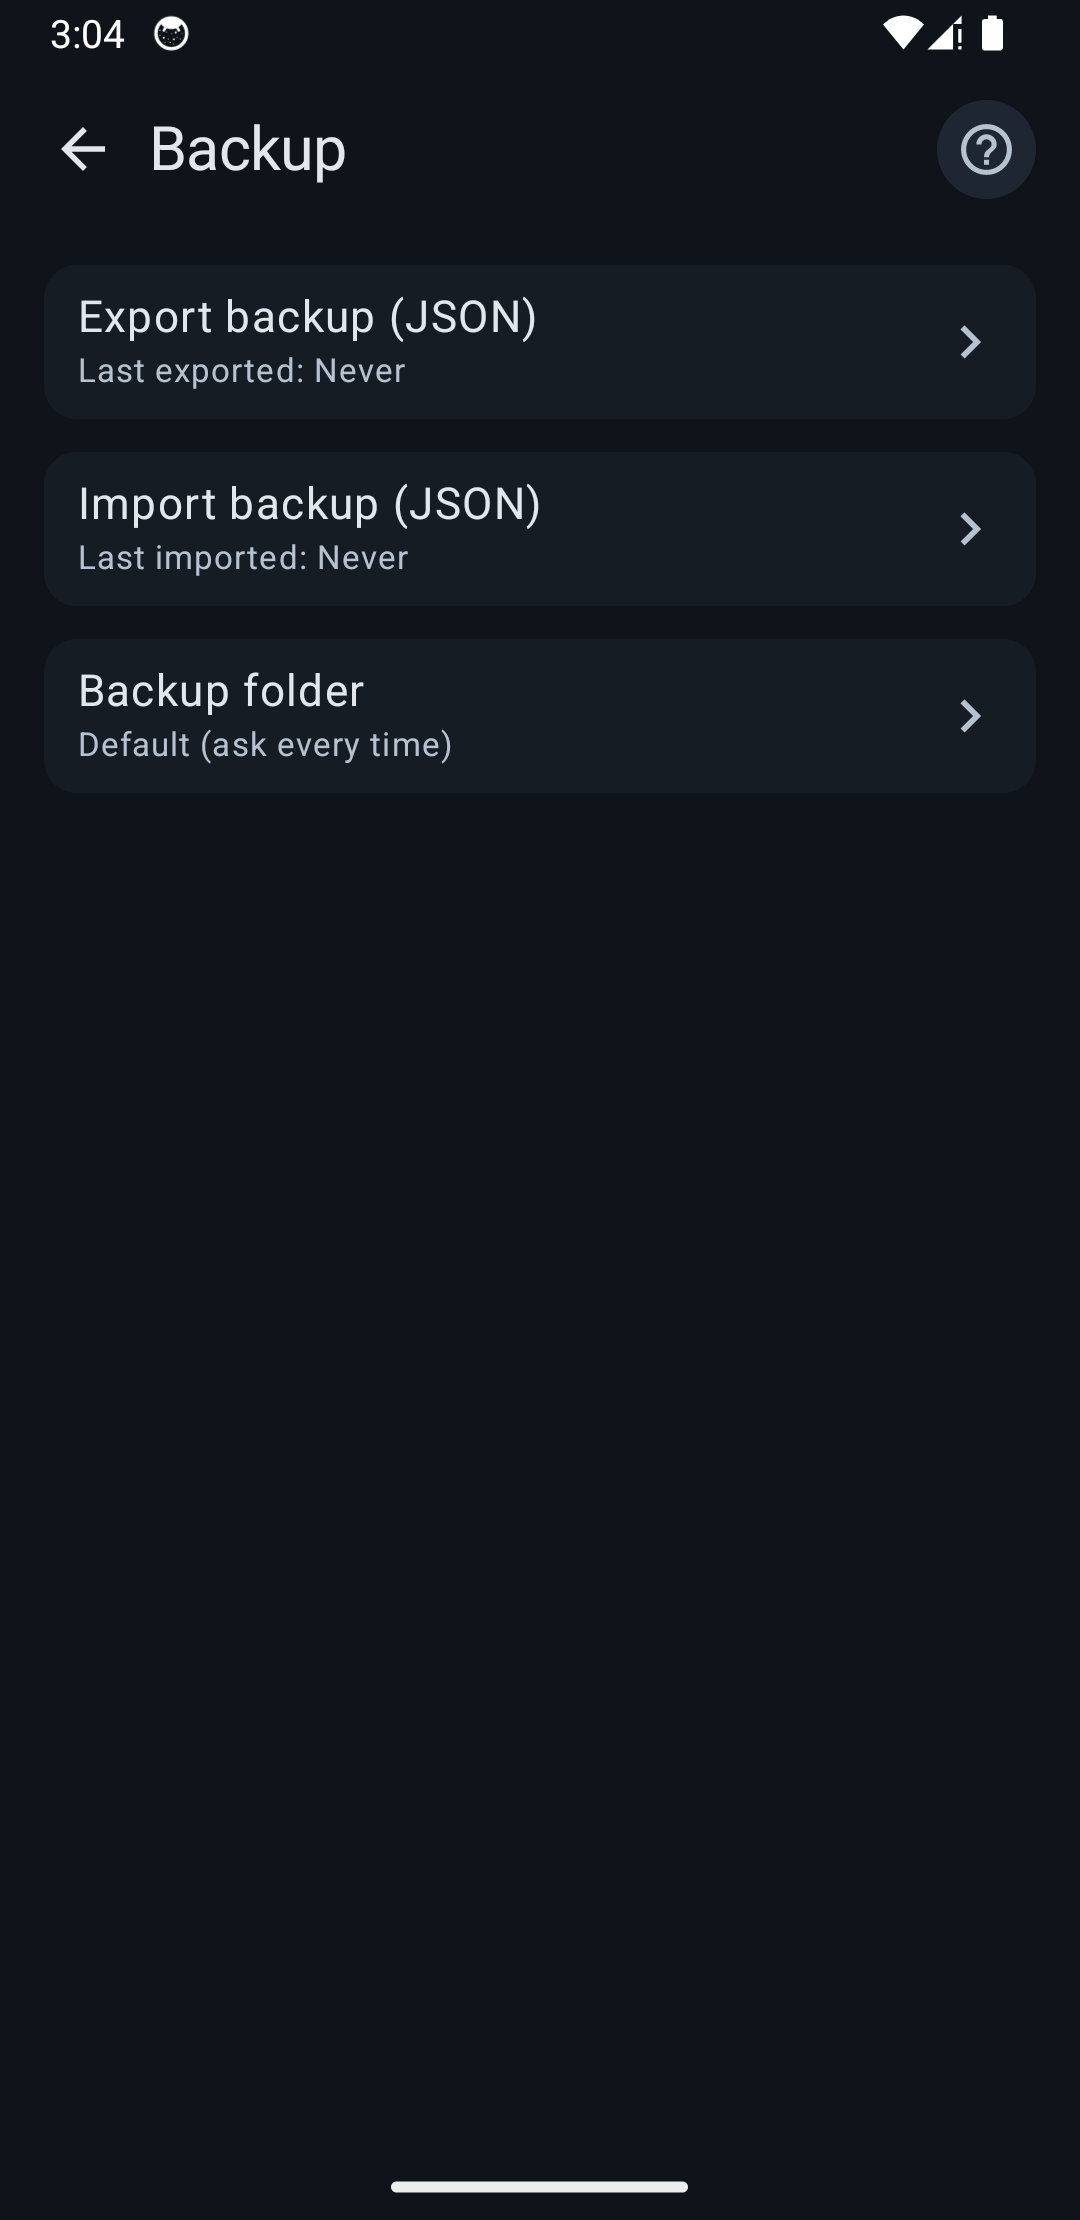
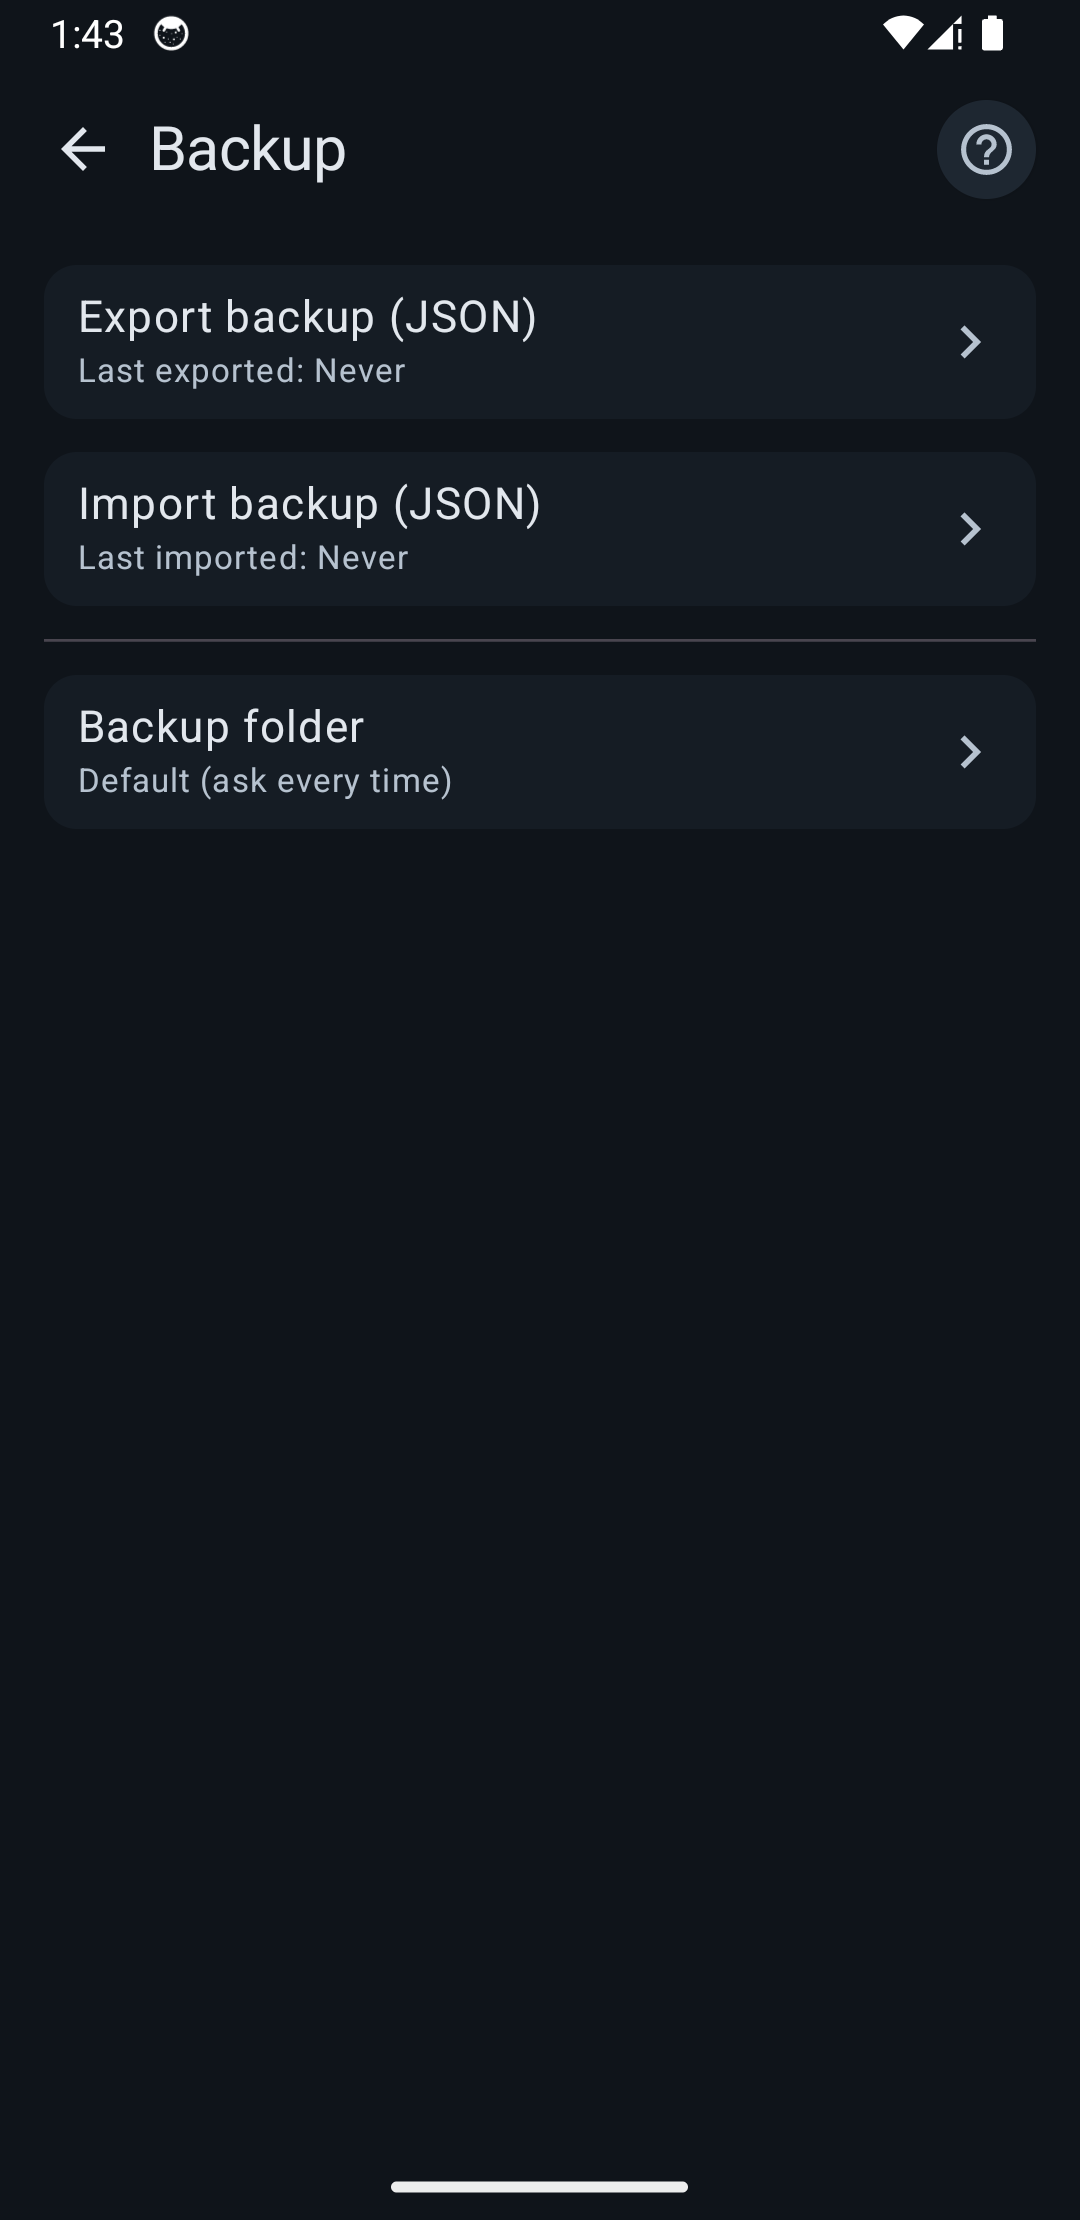
Separate backup folder action

Changed region(s): [[0.0611, 0.2797, 0.4278, 0.373], [0.0306, 0.0, 0.1222, 0.0311], [0.8861, 0.3108, 0.9167, 0.3419]]

diff --git a/app/src/main/java/com/rafaelfelipeac/hermes/features/settings/presentation/SettingsBackupScreen.kt b/app/src/main/java/com/rafaelfelipeac/hermes/features/settings/presentation/SettingsBackupScreen.kt
@@ -8,6 +8,7 @@ import androidx.compose.foundation.layout.heightIn
 import androidx.compose.foundation.layout.padding
 import androidx.compose.material.icons.Icons
 import androidx.compose.material.icons.outlined.ChevronRight
+import androidx.compose.material3.HorizontalDivider
 import androidx.compose.material3.Icon
 import androidx.compose.material3.MaterialTheme.colorScheme
 import androidx.compose.material3.MaterialTheme.shapes
@@ -62,6 +63,8 @@ internal fun SettingsBackupScreen(
             onClick = onImportClick,
             enabled = !isOperationInProgress,
         )
+
+        HorizontalDivider(color = colorScheme.outlineVariant)
 
         SettingsBackupActionRow(
             label = stringResource(R.string.settings_backup_folder_title),

diff --git a/LEARNING.md b/LEARNING.md
@@ -686,3 +686,4 @@ Recent learnings:
 - Dialog fields should not introduce a different visual accent language from the screen that opened them. Using quiet field fills and outline-variant borders keeps forms readable without making every inactive field look like a selected state.
 - A final screenshot pass needs explicit navigation target verification, not just scripted taps. Bottom navigation hit areas sit above the gesture bar, so regression captures should confirm the destination title before treating files as valid.
 - Categories still benefit from the established `TitleChip` pattern even after the row shell becomes quieter. Pairing color and name in one chip keeps category identity consistent with workout rows, event cards, and picker fields.
+- Backup actions need grouping even when each action is a standalone row. Export/import share a data-transfer context, while backup folder selection is a storage preference, so a subtle separator helps without adding extra copy.

diff --git a/docs/plans/2026-09-16-ui-refactor-plan.md b/docs/plans/2026-09-16-ui-refactor-plan.md
@@ -38,7 +38,7 @@
 
 ## Wave 4 Status
 - Applied the quiet row grammar to the Backup utility screen.
-- Split export, import, and folder actions into standalone elevated rows.
+- Split export, import, and folder actions into standalone elevated rows, with a separator before folder selection because export/import are backup operations and folder selection is a storage preference.
 - Preserved per-action disabled semantics during backup operations.
 - Added before and after light/dark captures to the screenshot archive.
 
